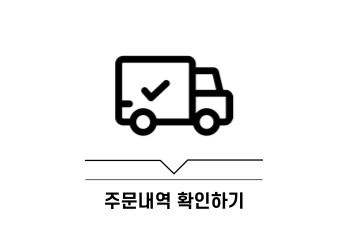
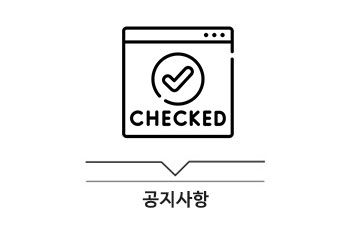
화면 폼 수정

Changed region(s): [[0.3161, 0.084, 0.6897, 0.56], [0.2299, 0.616, 0.7759, 0.728], [0.2874, 0.756, 0.7184, 0.84]]

diff --git a/src/main/resources/templates/notice.html b/src/main/resources/templates/notice.html
@@ -1,0 +1,36 @@
+<!DOCTYPE html>
+<html xmlns:th="http//www.thymeleaf.org"
+		xmlns:layout="http://www.ultraq.net.nz/thymeleaf/layout"
+		layout:decorate="~{layouts/default_layout}">
+		<main class="content-wrapper" layout:fragment="content">
+			<style>
+				@media only screen and (max-width: 575px) {
+					#notice_image{
+						width:1290px;	
+					}
+				}
+				@media only screen and (min-width: 576px) {
+					
+				}
+				@media only screen and (min-width: 768px) {
+				}
+				@media only screen and (min-width: 992px) {
+					#notice_image{
+						width:800px;	
+					}
+				}
+				@media only screen and (min-width: 1600px) {
+					#notice_image{
+						width:1000px;	
+					}
+				}
+			</style>
+			<div class="row justify-content-center text-start">
+				<div id="notice_image">
+					<h2 class="mb-4">공지사항</h2>
+					<span>밥수니 공지사항 정독 후 주문 부탁드립니다.</span>	
+					<img src="image/info.png" alt="공지사항"/>
+				</div>
+			</div>
+		</main>
+</html>

diff --git a/src/main/resources/templates/foodtable.html b/src/main/resources/templates/foodtable.html
@@ -1,0 +1,35 @@
+<!DOCTYPE html>
+<html xmlns:th="http//www.thymeleaf.org"
+		xmlns:layout="http://www.ultraq.net.nz/thymeleaf/layout"
+		layout:decorate="~{layouts/default_layout}">
+		<main class="content-wrapper" layout:fragment="content">
+			<style>
+				@media only screen and (max-width: 575px) {
+					#notice_image{
+						width:1290px;	
+					}
+				}
+				@media only screen and (min-width: 576px) {
+					
+				}
+				@media only screen and (min-width: 768px) {
+				}
+				@media only screen and (min-width: 992px) {
+					#notice_image{
+						width:800px;	
+					}
+				}
+				@media only screen and (min-width: 1600px) {
+					#notice_image{
+						width:1000px;	
+					}
+				}
+			</style>
+			<div class="row justify-content-center text-start">
+				<div id="notice_image">
+					<h2 class="mb-4">이달의 식단</h2>
+					<img src="image/foodtable.jpg" alt="식단표"/>
+				</div>
+			</div>
+		</main>
+</html>

diff --git a/src/main/resources/templates/fragments/adminHeader.html b/src/main/resources/templates/fragments/adminHeader.html
@@ -180,7 +180,7 @@
 				<!--header menu -->
 				<div id="admin_header">
 					<div class="admin_sub_header">
-						<a><img src="/image/logo.jpg" alt="밥수니반찬헤더로고"></a>
+<!--						<a><img src="/image/logo.jpg" alt="밥수니반찬헤더로고"></a>-->
 						<ul>
 							<li th:text="|${session.adminLoginInfo.managerId} 관리자님 환영합니다.|"></li>
 							<li><a href="/admin/login" class="menuLink">로그아웃</a></li>

diff --git a/src/main/resources/templates/main.html b/src/main/resources/templates/main.html
@@ -73,8 +73,9 @@
 			</div>
 		</div>
 		<div class="contents mt-4">
+			<div><a href="/foodtable"><img src="image/con1.jpg" alt="이달의 식단"></a></div>
 			<div><a href="/order"><img src="image/con2.jpg" alt="주문하기"></a></div>
-			<div><a href="#"><img src="image/con3.jpg" alt="주문내역 확인하기"></a></div>
+			<div><a href="/notice"><img src="image/con3.jpg" alt="공지사항"></a></div>
 		</div>
 		
 	</main>

diff --git a/src/main/resources/templates/fragments/header.html b/src/main/resources/templates/fragments/header.html
@@ -14,7 +14,7 @@
 						<a href="/order" class="nav-link">주문하기</a>
 					</li>
 					<li class="nav-item">
-						<a href="#" class="nav-link">이달의식단</a>
+						<a href="/foodtable" class="nav-link">이달의식단</a>
 					<li class="nav-item">
 						<a href="#" class="nav-link">밥수니반찬</a>
 					</li>

diff --git a/src/main/java/com/simplesoft/controller/HomeController.java b/src/main/java/com/simplesoft/controller/HomeController.java
@@ -30,6 +30,14 @@ public class HomeController {
 	public String home() {
 		return "main";
 	}
+	@GetMapping("notice")
+	public String notice() {
+		return "notice";
+	}
+	@GetMapping("foodtable")
+	public String foodtable() {
+		return "foodtable";
+	}
 	
 	/**
 	 * 메세지 발송 후 결과 받는 url
